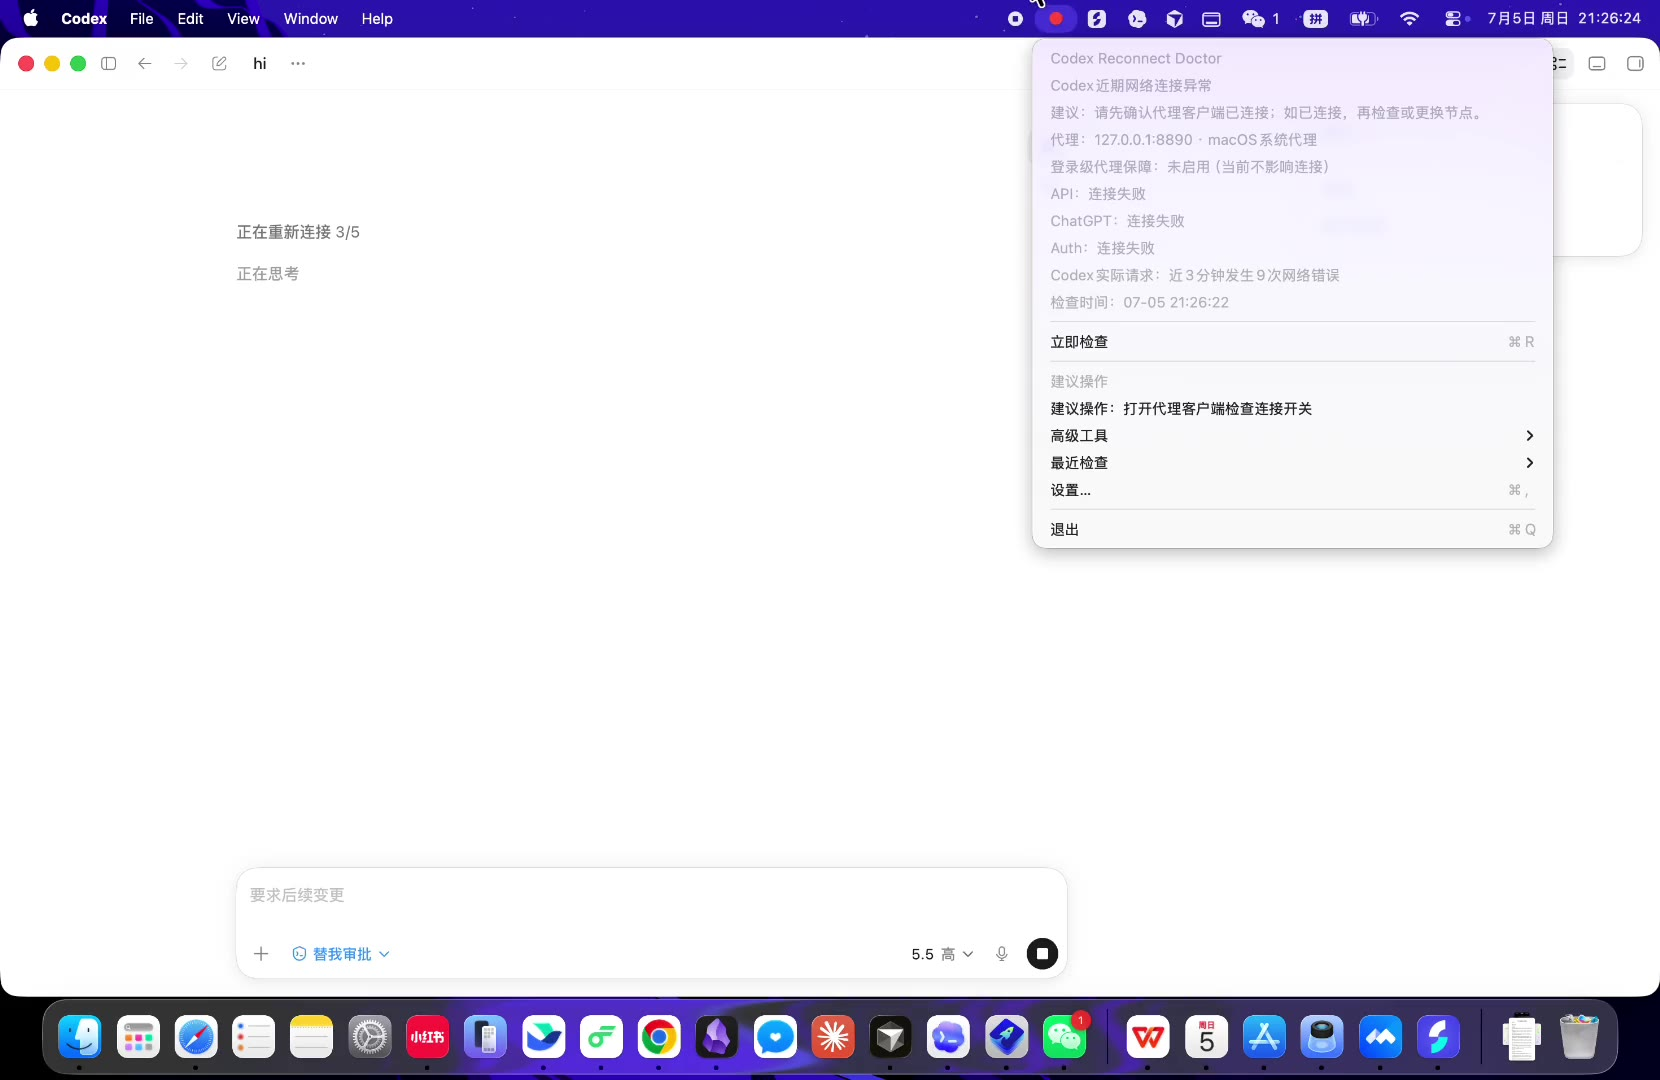
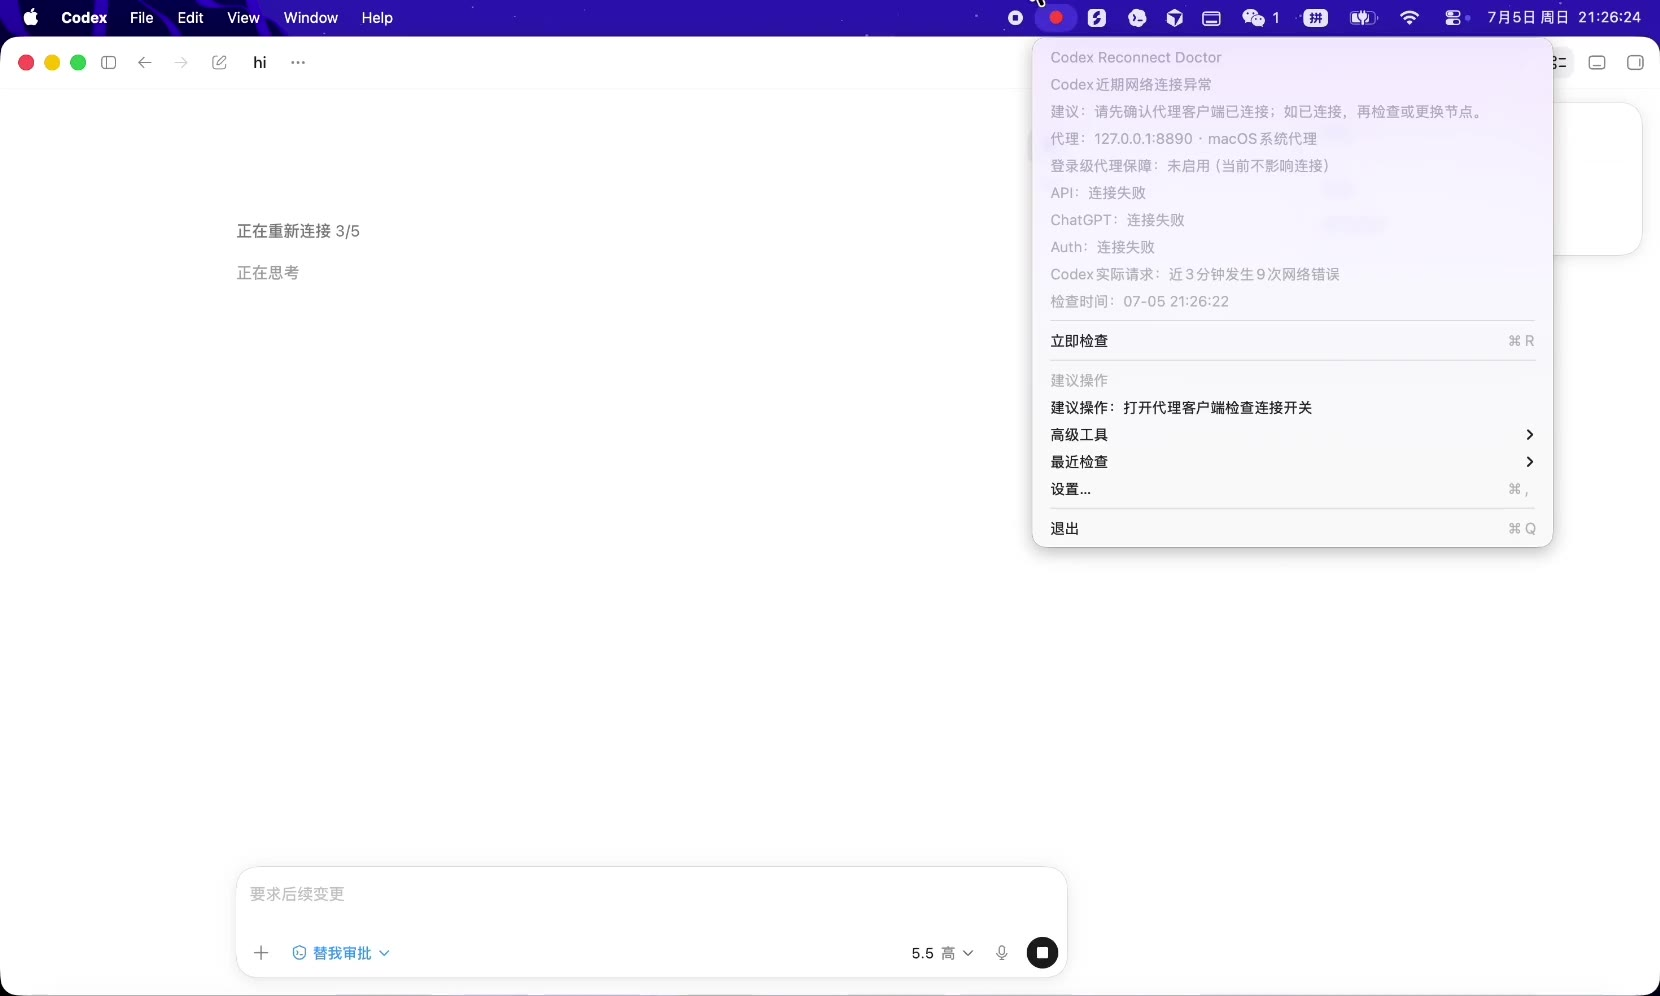
Replace demo video

diff --git a/docs/index.html b/docs/index.html
@@ -118,7 +118,7 @@
       width: 100%;
       border-radius: 14px;
       background: #0b1020;
-      aspect-ratio: 83 / 54;
+      aspect-ratio: 5 / 3;
     }
 
     .caption {
@@ -183,7 +183,7 @@
       </video>
       <div class="caption">
         <span>80 秒：模拟断开代理 → 发现 Codex 超时 → 恢复连接</span>
-        <span>H.264 · 1080p · 2.9 MB</span>
+        <span>H.264 · 1660×996 · 2.4 MB</span>
       </div>
     </section>
 